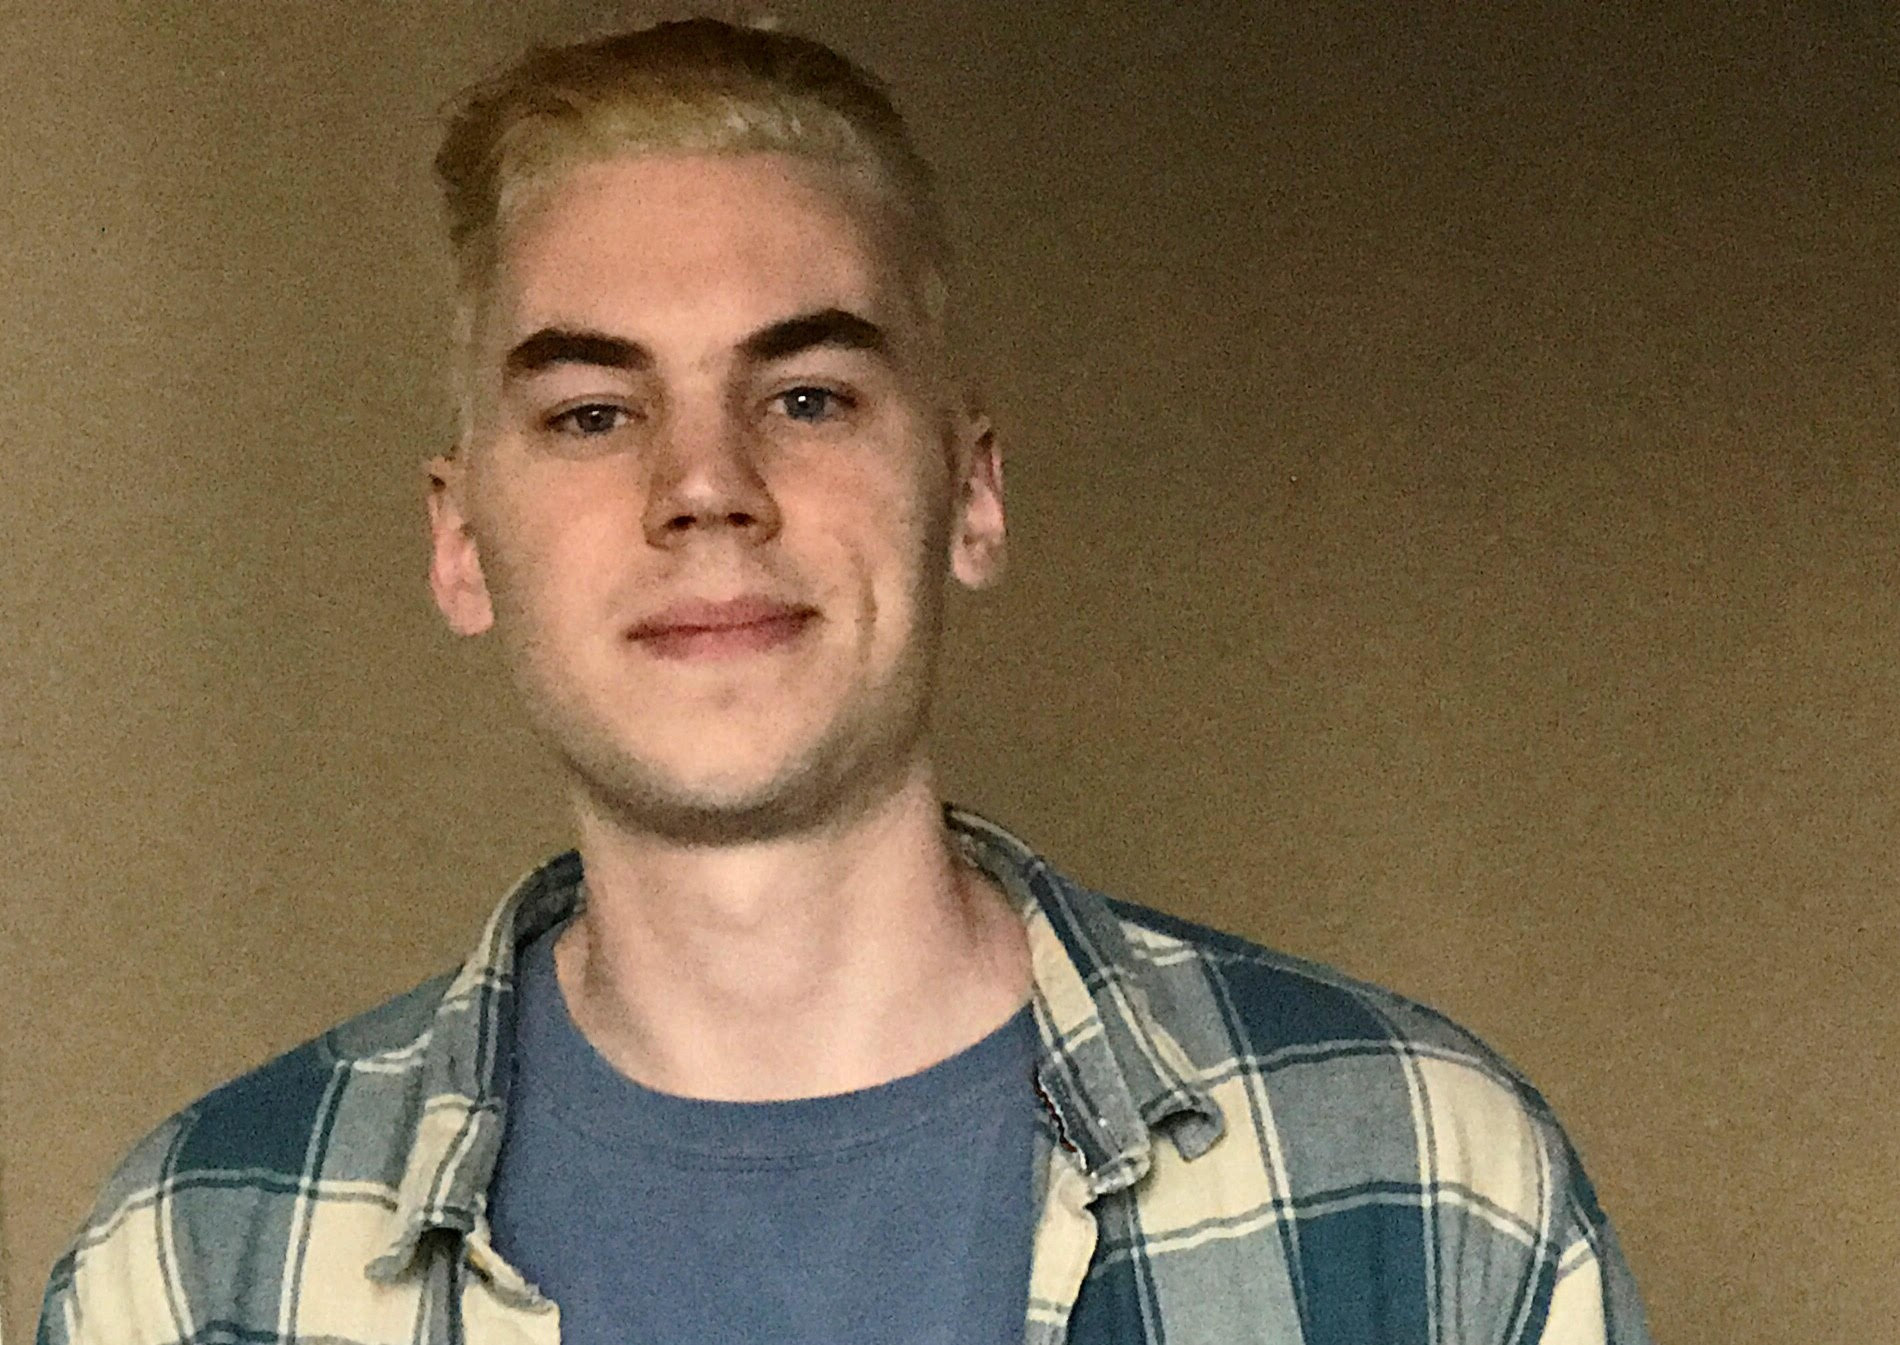
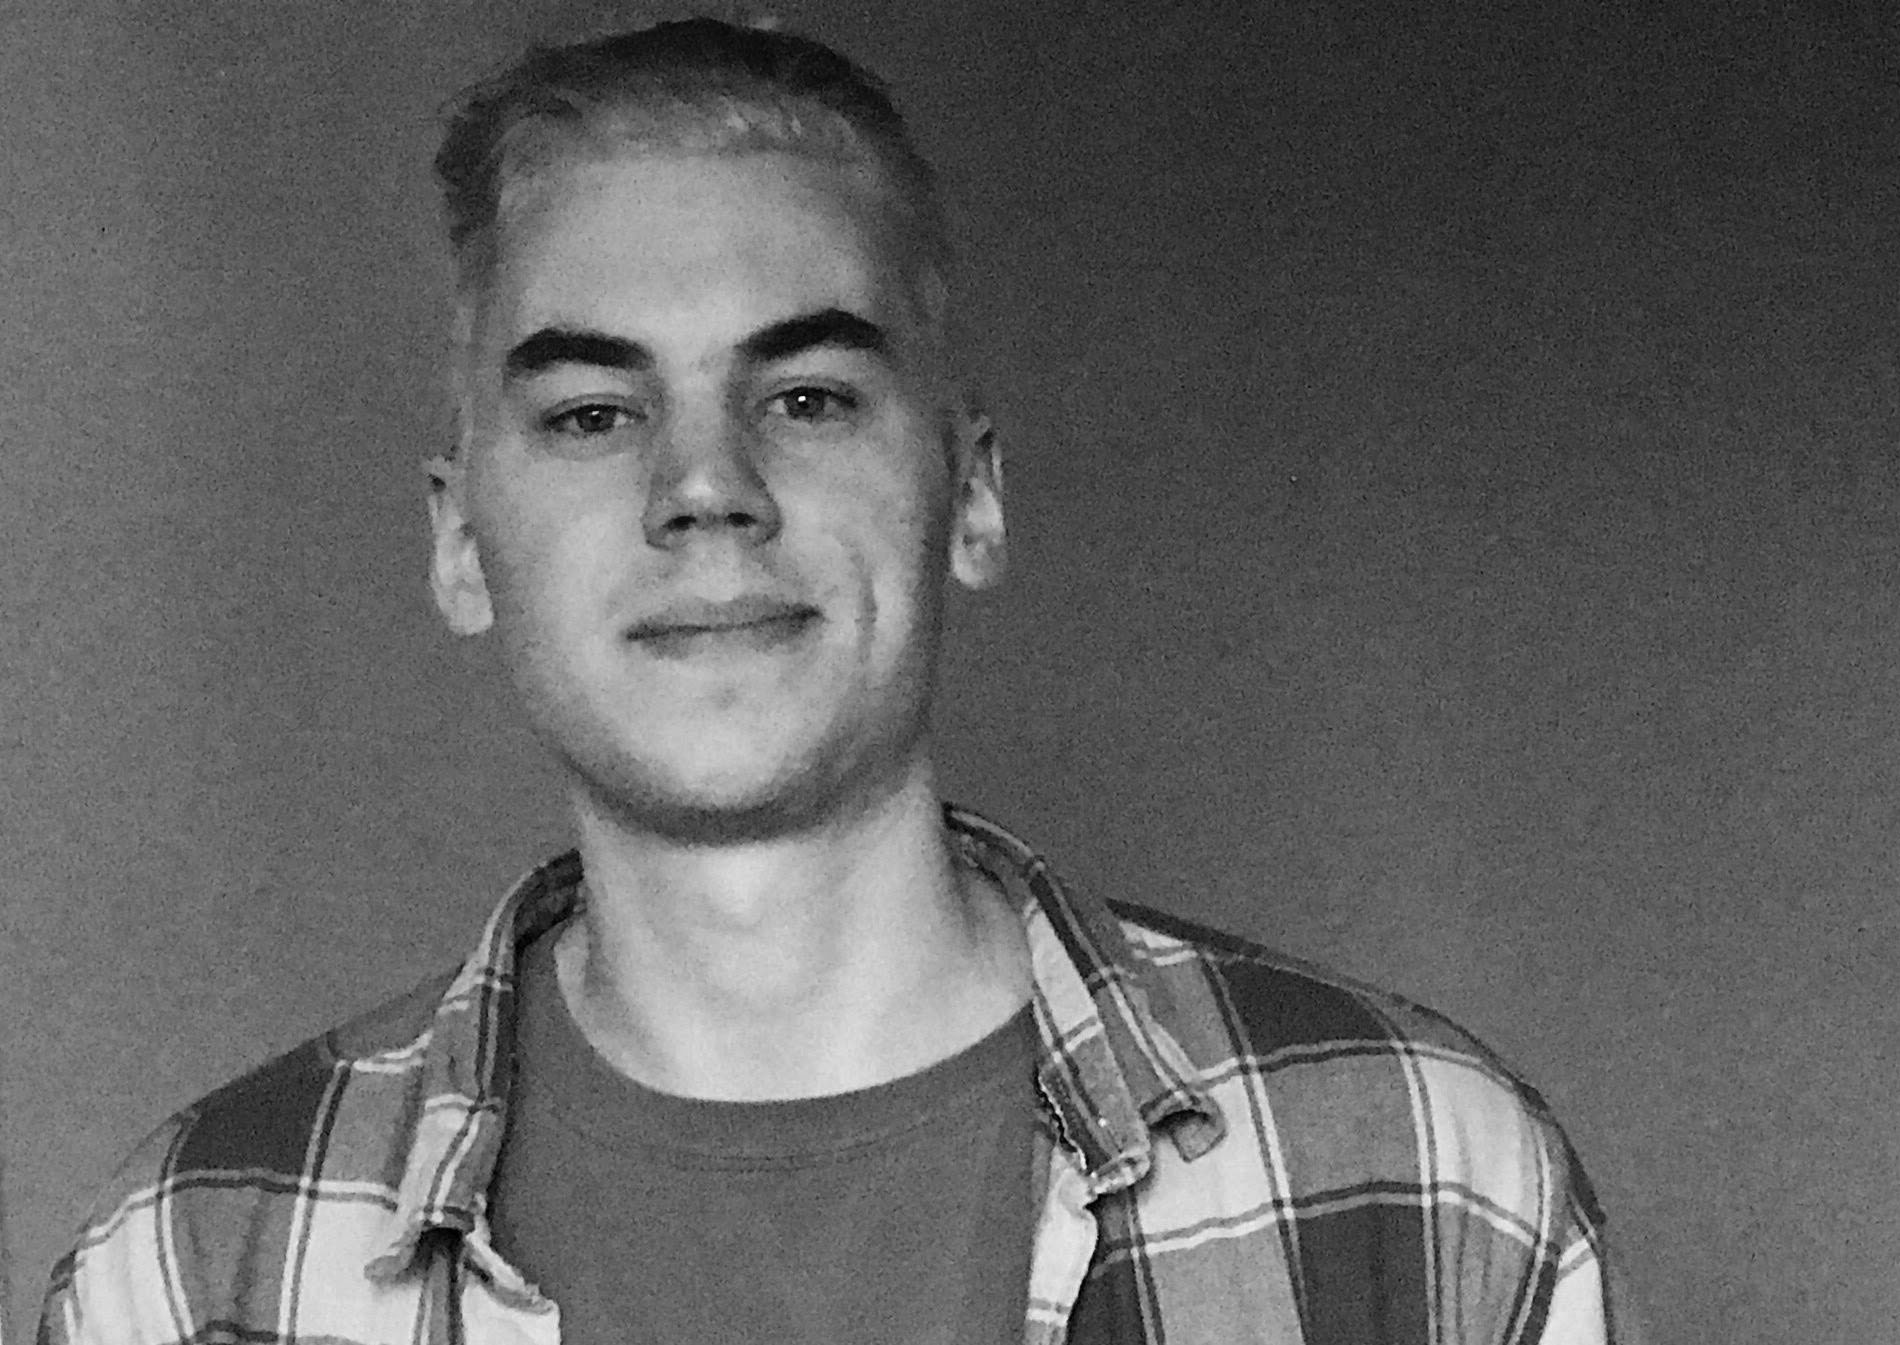
style alterations, need to take a new headshot

diff --git a/assets/css/style.css b/assets/css/style.css
@@ -3,7 +3,7 @@
  }
  
  html {
-    background: url("../images/half_pixel_col.jpg") no-repeat center center fixed;
+    background: url("../images/sky_bg.jpg") no-repeat center center fixed;
     -webkit-background-size: cover;
     -moz-background-size: cover;
     -o-background-size: cover;
